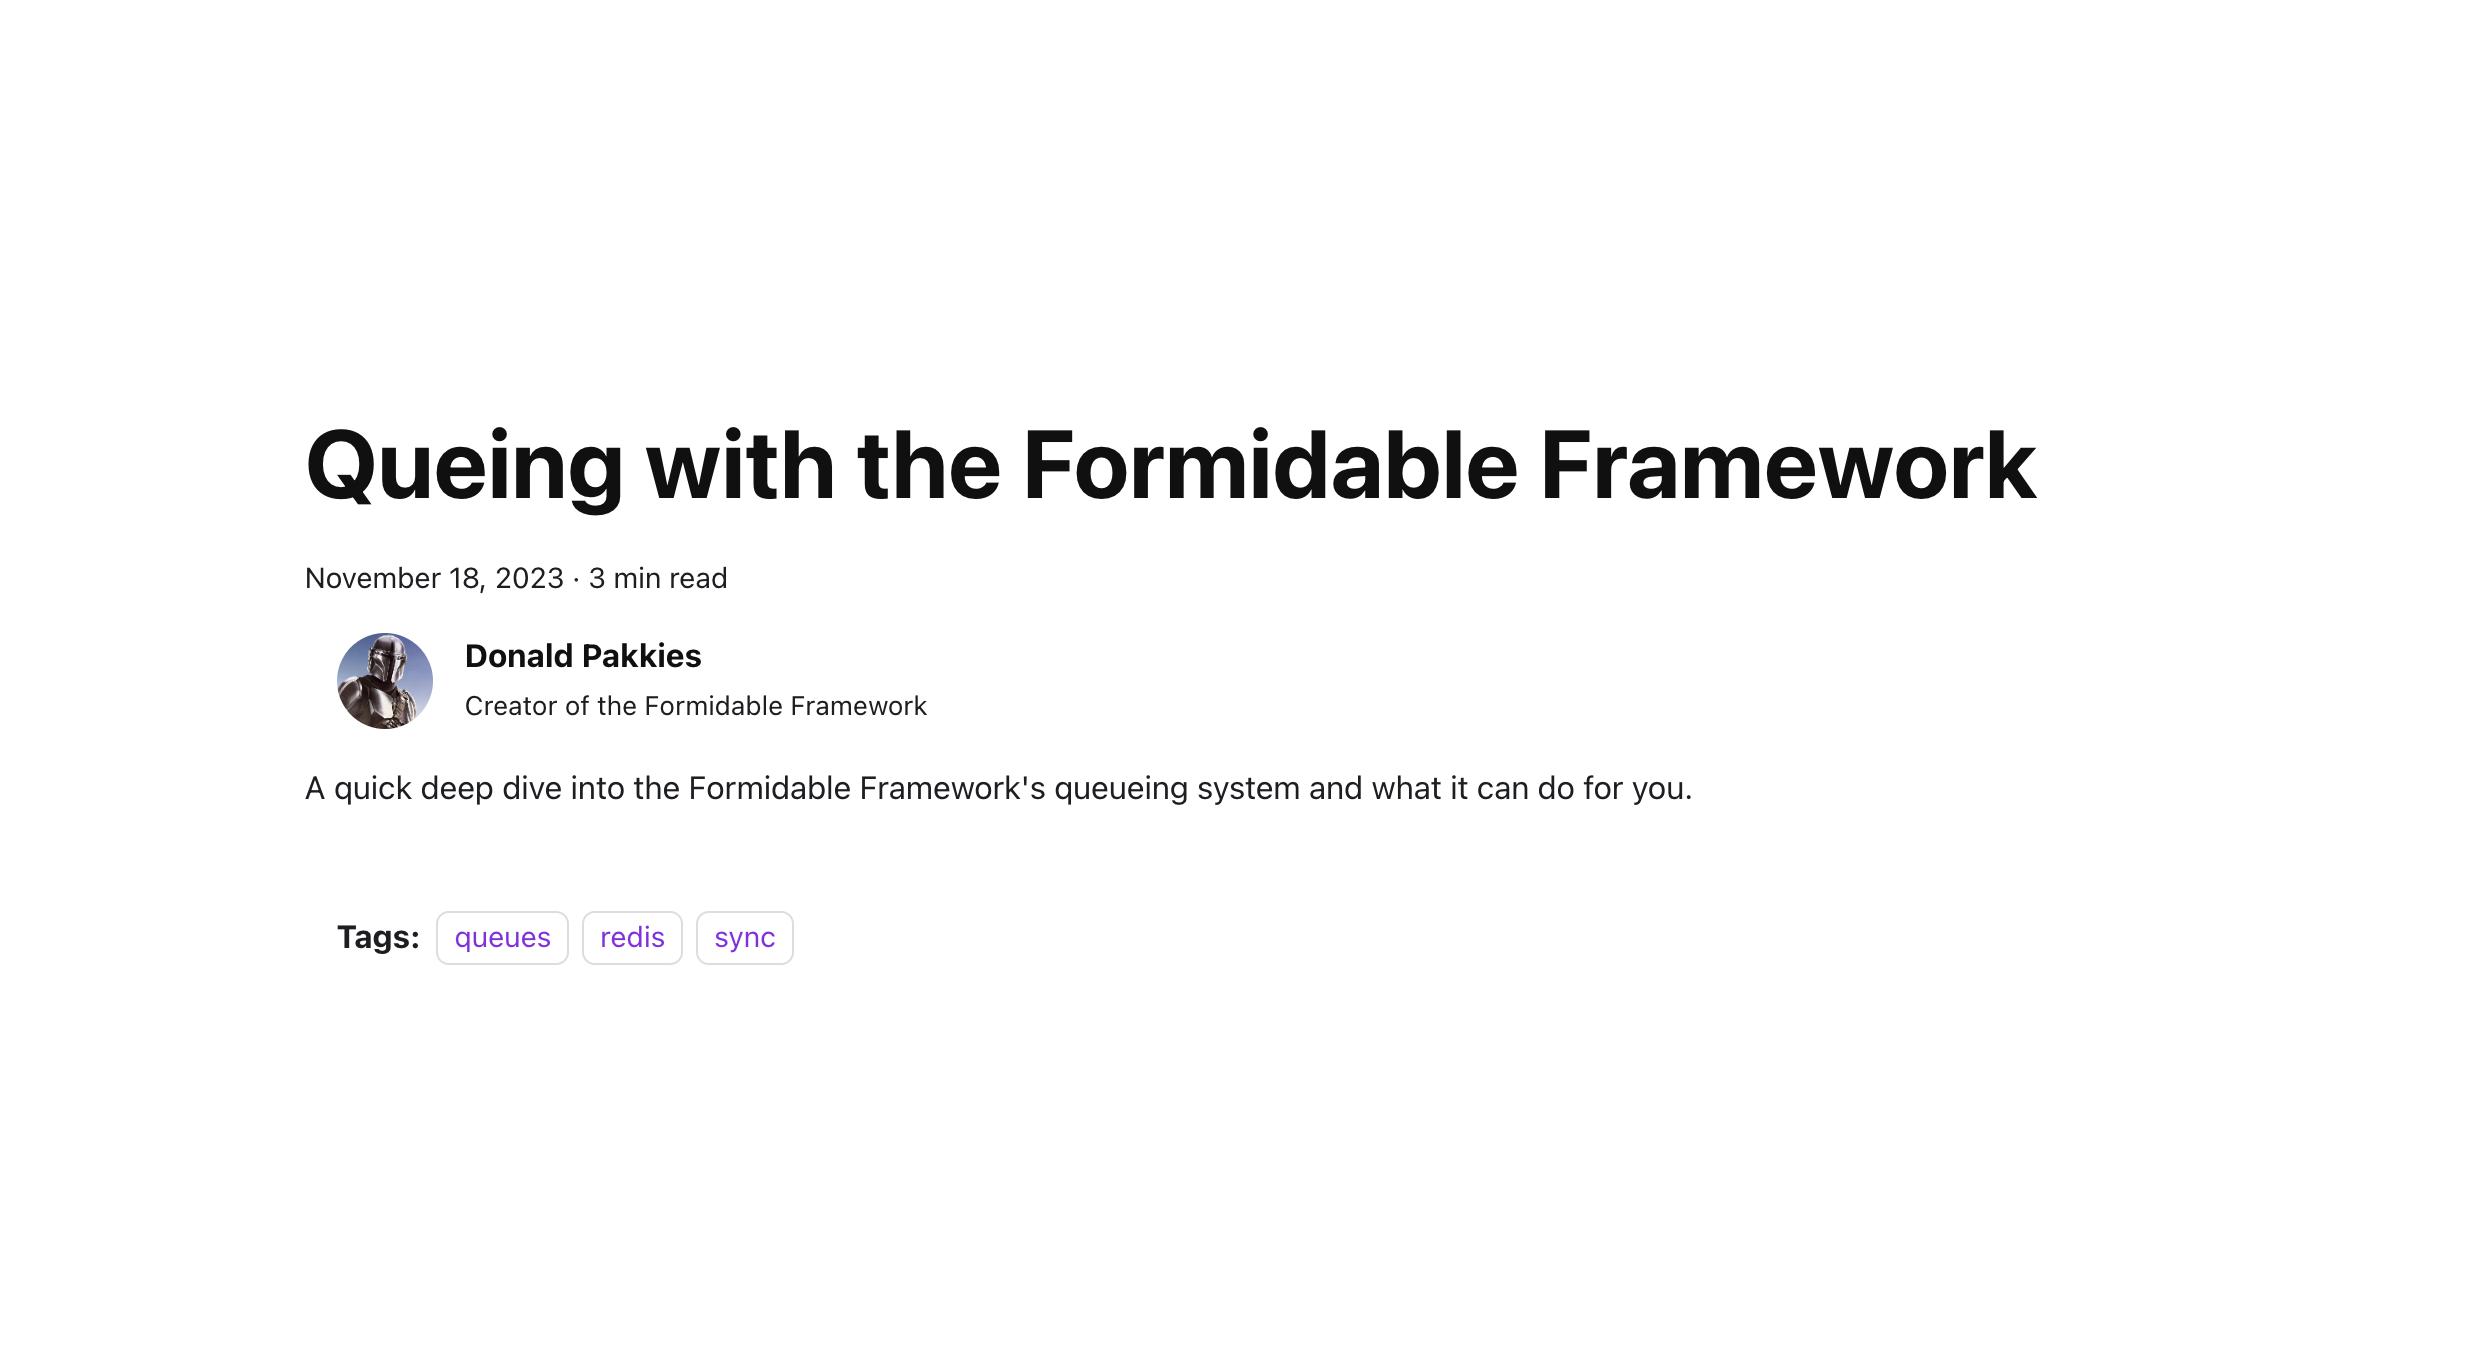
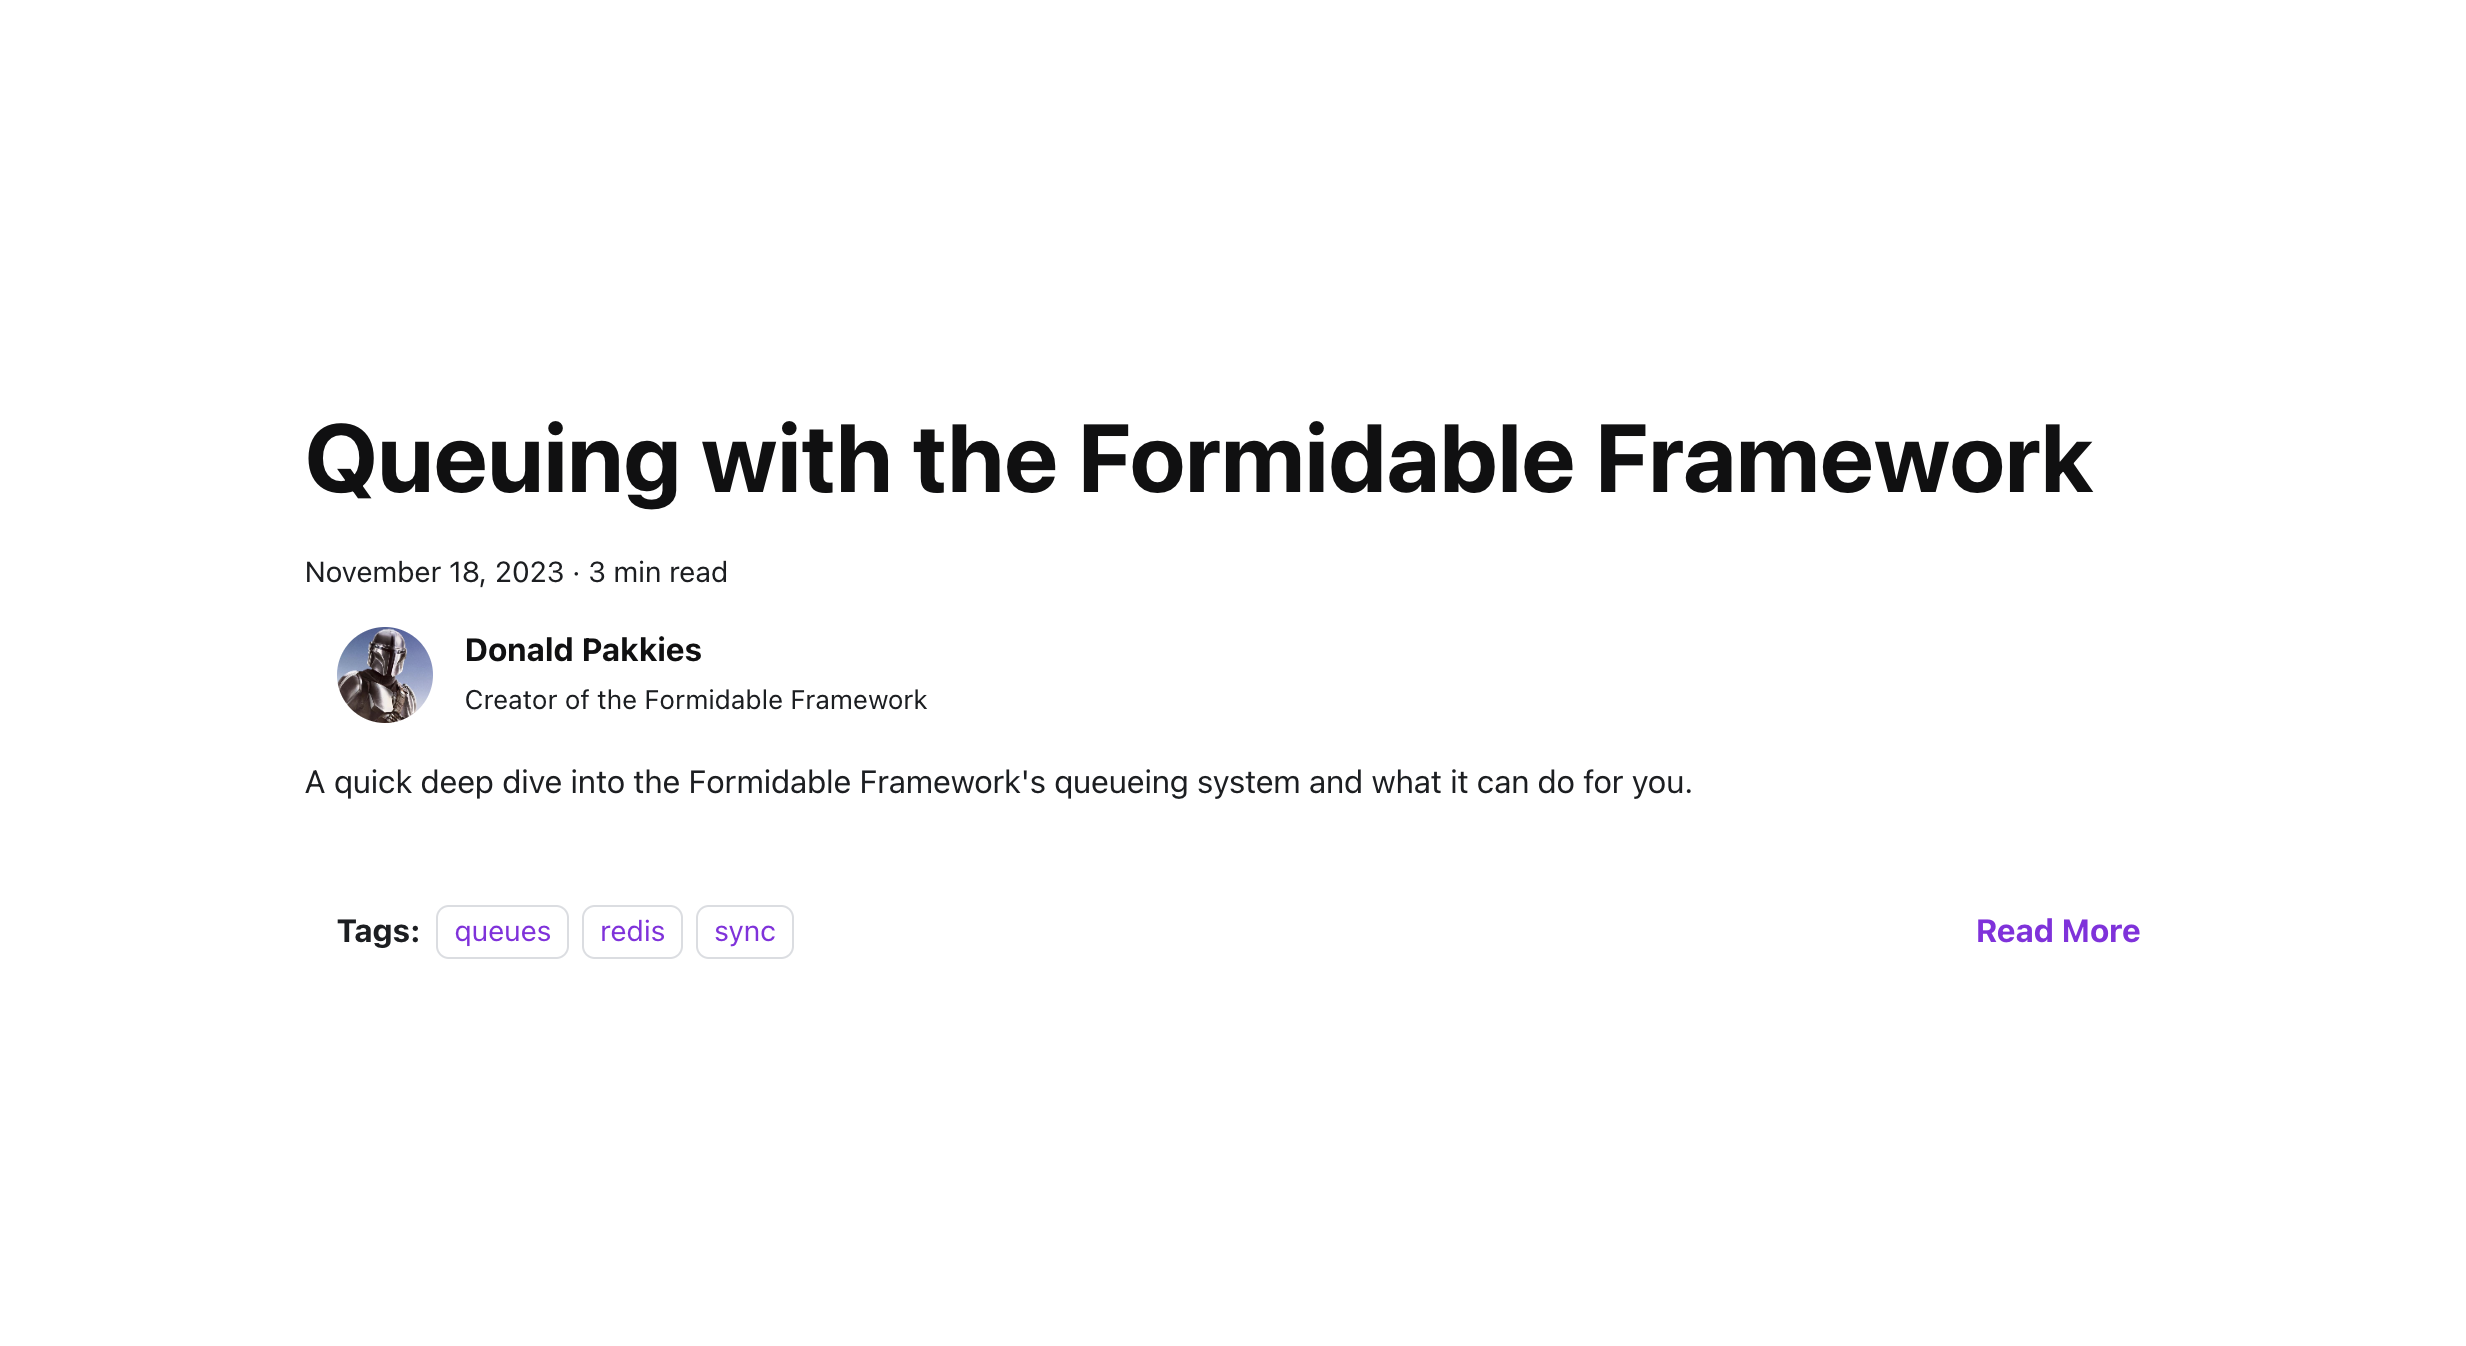
fix: typo

diff --git a/blog/2023-11-18-formidable-queues.md b/blog/2023-11-18-formidable-queues.md
@@ -1,5 +1,5 @@
 ---
-title: Queing with the Formidable Framework
+title: Queuing with the Formidable Framework
 description: Looking into the Formidable Framework's queueing system.
 slug: formidable-queues
 authors:
@@ -16,7 +16,7 @@ hide_table_of_contents: true
 	<meta name="twitter:card" content="summary_large_image" />
 	<meta name="twitter:site" content="@formidablejs" />
 	<meta name="twitter:creator" content="@donaldpakkies" />
-	<meta name="twitter:title" content="Queing with the Formidable Framework" />
+	<meta name="twitter:title" content="Queuing with the Formidable Framework" />
 	<meta name="twitter:description" content="Looking into the Formidable Framework's queueing system." />
 	<meta name="twitter:image" content="https://formidablejs.org/img/formidable-queues.png" />
 	<meta name="twitter:url" content="https://formidablejs.org/blog/formidable-queues" />
